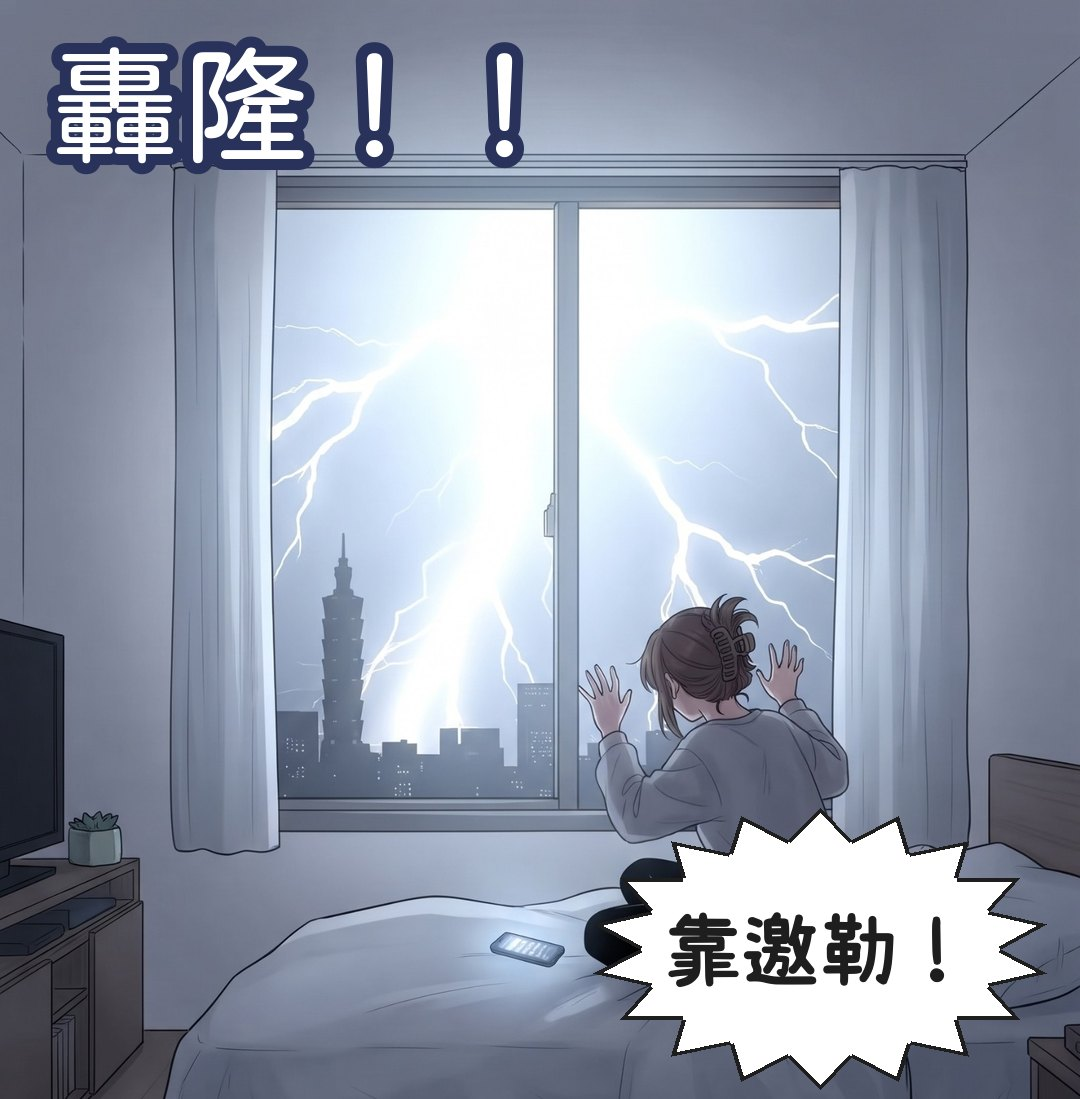
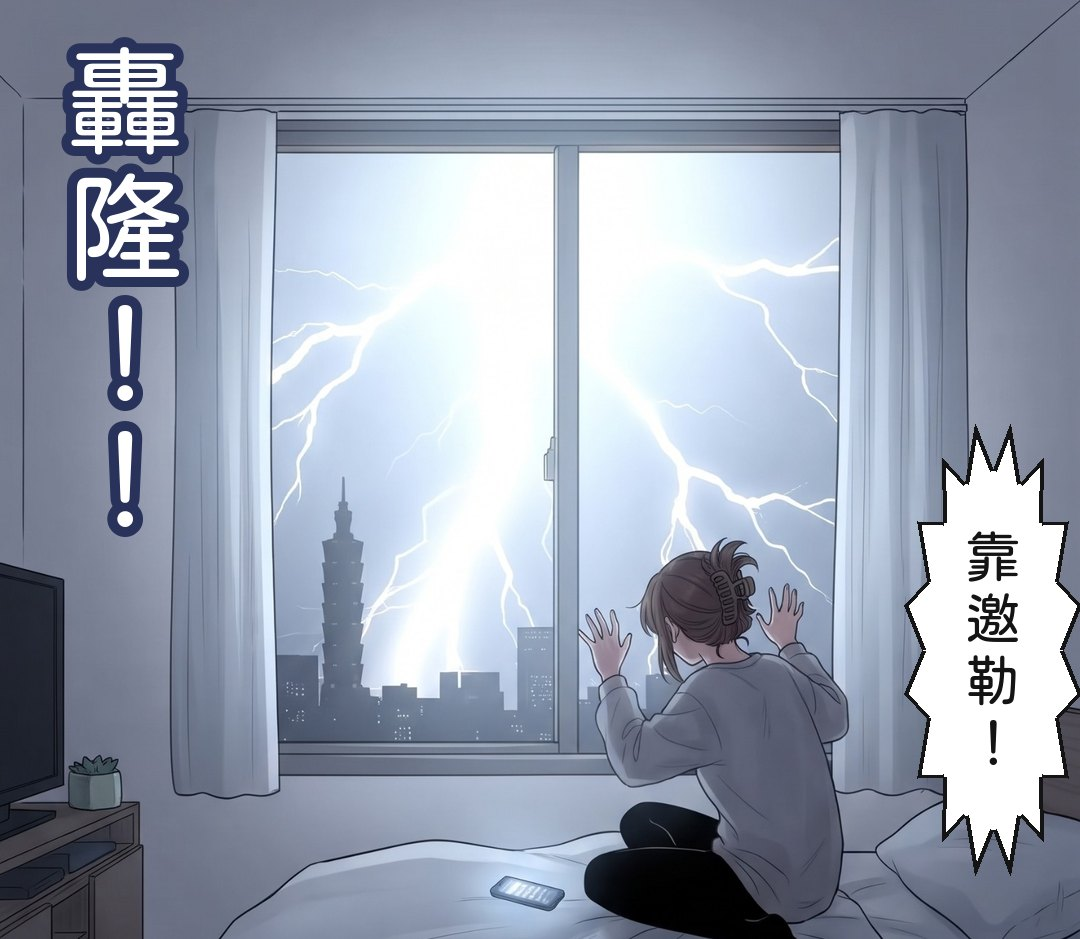
Chapter 1 comic v2: vertical text bubbles, varied panel sizes on a manga page
Claude-Session: https://claude.ai/code/session_015Mqcw1CUwCrp5H32bc8ZgS

diff --git a/story/01-comic.html b/story/01-comic.html
@@ -17,25 +17,25 @@
   <h1>月暈雙環的晚上</h1>
   <p class="chapter-no">第一話</p>
   <div class="comic">
-    <img src="comic/01-1.jpg" alt="被窩裡滑手機，已經半夜" width="1080" loading="lazy">
-    <img src="comic/01-2.jpg" alt="窗外一道巨大的閃電" width="1080" loading="lazy">
-    <div class="gap xl"></div>
-    <img src="comic/01-3.jpg" alt="黑暗中睜大眼睛" width="1080" loading="lazy">
-    <img src="comic/01-4.jpg" alt="停電的台北和圍著光環的月亮" width="1080" loading="lazy">
-    <img src="comic/01-5.jpg" alt="拿著手機走到門口" width="1080" loading="lazy">
-    <div class="gap l"><p>門打開。</p></div>
-    <img src="comic/01-6.jpg" alt="門打開，門外是一整片森林" width="1080" loading="lazy">
-    <div class="gap m"><p>沒有電梯間。</p></div>
-    <div class="gap m"><p>沒有隔壁帥哥。</p></div>
-    <div class="gap l"><p>沒有隔壁。</p></div>
-    <img src="comic/01-7.jpg" alt="手電筒照著傻眼的臉" width="1080" loading="lazy">
-    <img src="comic/01-8.jpg" alt="把門關上" width="1080" loading="lazy">
-    <img src="comic/01-9.jpg" alt="一個人站在巨大的森林裡" width="1080" loading="lazy">
-    <img src="comic/01-10.jpg" alt="樹葉間圍著兩圈光環的月亮" width="1080" loading="lazy">
-    <div class="gap xl"></div>
-    <img src="comic/01-11.jpg" alt="一隻跟她一樣大的橘貓從樹林走出來" width="1080" loading="lazy">
-    <div class="gap s"></div>
-    <img src="comic/01-12.jpg" alt="橘貓嘆了一口氣" width="1080" loading="lazy">
+    <img class="in" src="comic/01-1.jpg" alt="被窩裡滑手機，已經半夜" width="1080" loading="lazy">
+    <img class="full" src="comic/01-2.jpg" alt="窗外一道巨大的閃電" width="1080" loading="lazy">
+    <div class="gap xl dark"></div>
+    <img class="in left w78" src="comic/01-3.jpg" alt="黑暗中睜大眼睛" width="1080" loading="lazy">
+    <img class="full" src="comic/01-4.jpg" alt="停電的台北和圍著光環的月亮" width="1080" loading="lazy">
+    <img class="in right w82" src="comic/01-5.jpg" alt="拿著手機走到門口" width="1080" loading="lazy">
+    <div class="gap l dark"><p>門打開。</p></div>
+    <img class="full" src="comic/01-6.jpg" alt="門打開，門外是一整片森林" width="1080" loading="lazy">
+    <div class="gap m dark"><p>沒有電梯間。</p></div>
+    <div class="gap m dark"><p>沒有隔壁帥哥。</p></div>
+    <div class="gap l dark"><p>沒有隔壁。</p></div>
+    <img class="in" src="comic/01-7.jpg" alt="手電筒照著傻眼的臉" width="1080" loading="lazy">
+    <img class="in left w72" src="comic/01-8.jpg" alt="把門關上" width="1080" loading="lazy">
+    <div class="gap s"><p>就在門關起來的那一剎那，</p><p>門消失了。</p></div>
+    <img class="full" src="comic/01-9.jpg" alt="一個人站在巨大的森林裡" width="1080" loading="lazy">
+    <img class="in right w74" src="comic/01-10.jpg" alt="樹葉間圍著兩圈光環的月亮" width="1080" loading="lazy">
+    <div class="gap xl dark"></div>
+    <img class="full" src="comic/01-11.jpg" alt="一隻跟她一樣大的橘貓從樹林走出來" width="1080" loading="lazy">
+    <img class="in" src="comic/01-12.jpg" alt="橘貓嘆了一口氣" width="1080" loading="lazy">
   </div>
   <p class="next-note">第二話準備中。</p>
   <nav class="nav">

diff --git a/story/story.css b/story/story.css
@@ -58,9 +58,16 @@ h1 { margin: 6px 0 4px; font-size: 26px; text-align: center; letter-spacing: .06
 .toc li.ep { padding: 16px 18px; border-radius: 14px; background: var(--paper); box-shadow: 0 1px 8px rgba(80,80,140,.08); }
 .toc .links { display: flex; gap: 8px; margin-top: 10px; }
 .toc .links a { flex: 1; padding: 8px 0; border-radius: 10px; text-align: center; background: #EEF2FA; box-shadow: none; }
-.comic { margin: 0 -22px; padding: 14px 0; background: #121419; }
-.comic img { display: block; width: 100%; height: auto; margin: 0 0 14px; }
 .next-note { margin: 22px 0 0; text-align: center; color: var(--ink-soft); line-height: 1.8; }
-.gap { display: flex; flex-direction: column; align-items: center; justify-content: center; margin: 0 0 14px; }
-.gap.s { height: 18vh; } .gap.m { height: 32vh; } .gap.l { height: 50vh; } .gap.xl { height: 70vh; }
-.gap p { margin: 0; color: #EDEFF5; font-size: 20px; letter-spacing: .12em; }
+/* 漫畫：白色漫畫頁，格子大小不一；黑色段落是停頓 */
+.comic { margin: 0 -22px; padding: 18px 0; background: #fbfaf7; display: flex; flex-direction: column; gap: 22px; }
+.comic img { display: block; height: auto; }
+.comic img.full { width: 100%; }
+.comic img.in { width: 92%; margin: 0 auto; border: 4px solid #141414; }
+.comic img.left { margin: 0 auto 0 4%; } .comic img.right { margin: 0 4% 0 auto; }
+.comic img.w72 { width: 72%; } .comic img.w74 { width: 74%; } .comic img.w78 { width: 78%; } .comic img.w82 { width: 82%; }
+.gap { display: flex; flex-direction: column; align-items: center; justify-content: center; gap: 6px; }
+.gap.dark { background: #121419; }
+.gap.s { height: 22vh; } .gap.m { height: 32vh; } .gap.l { height: 50vh; } .gap.xl { height: 70vh; }
+.gap p { margin: 0; font-size: 20px; letter-spacing: .12em; color: #2b3445; }
+.gap.dark p { color: #EDEFF5; }
